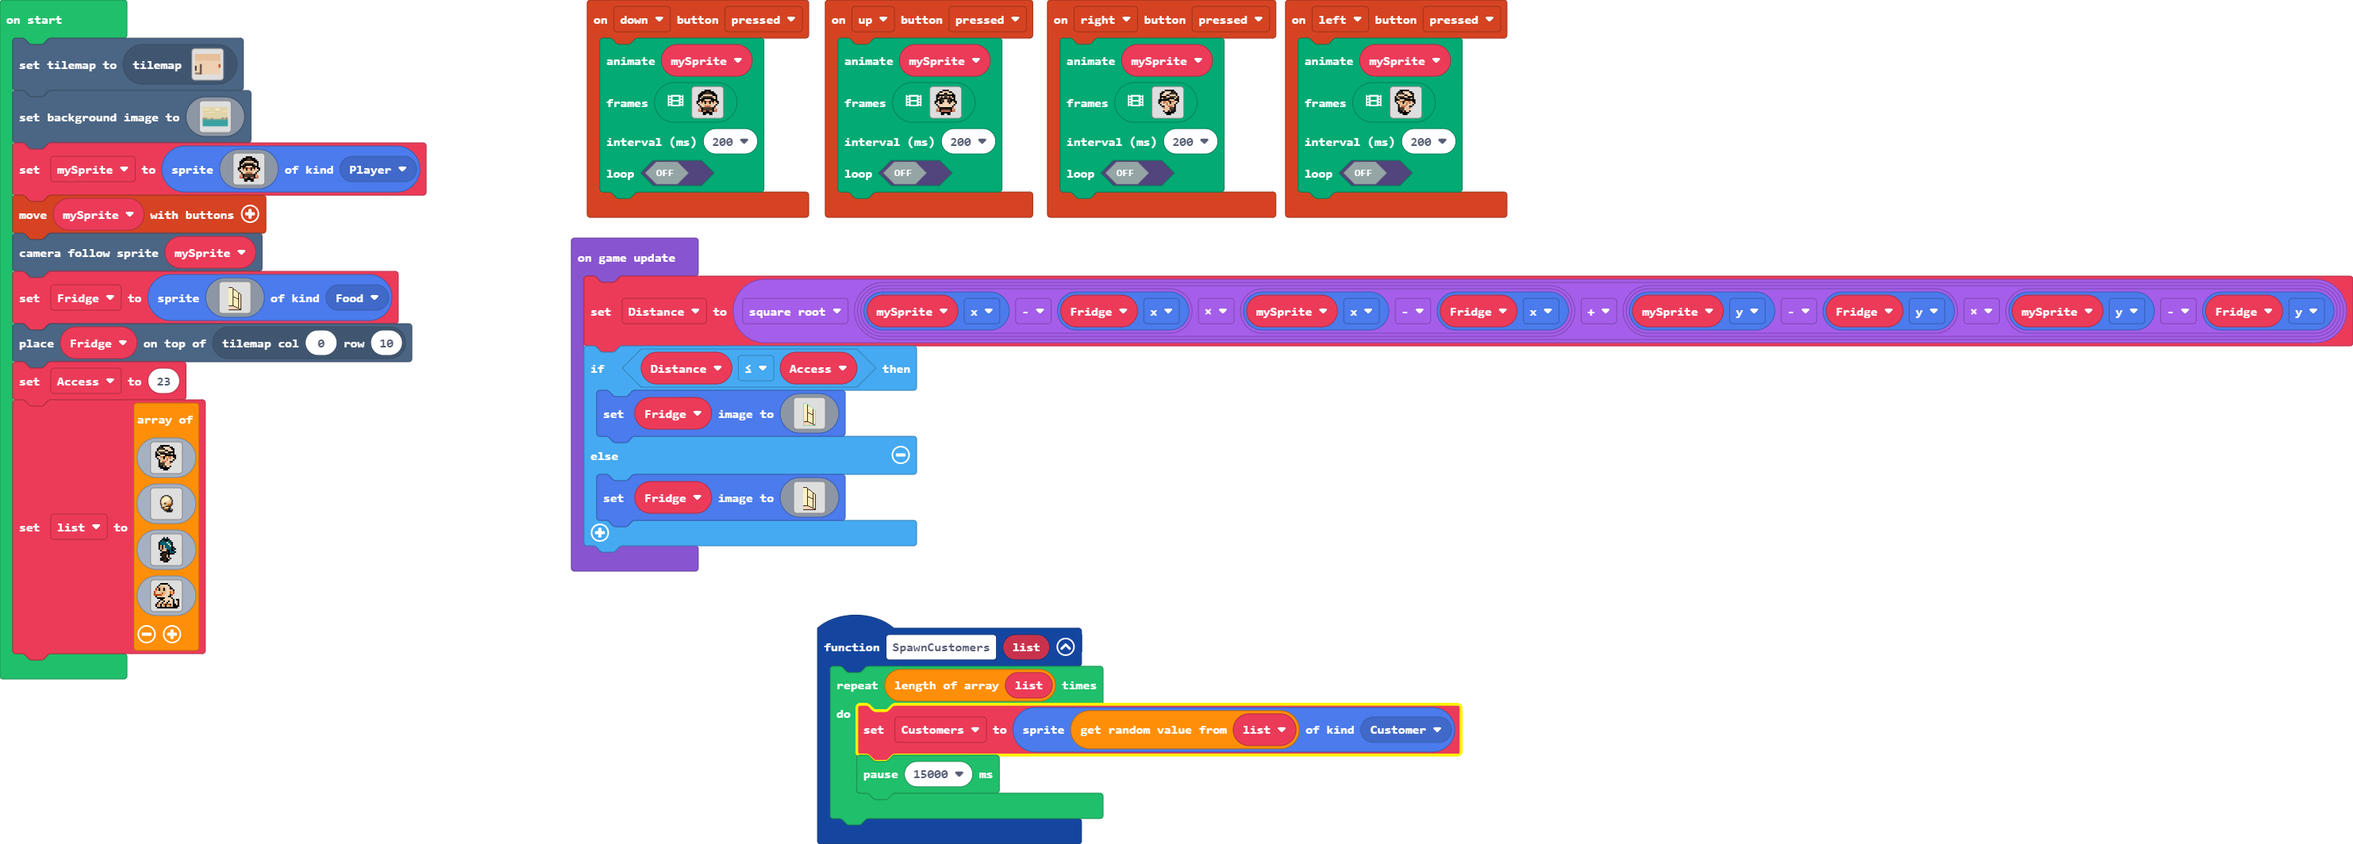
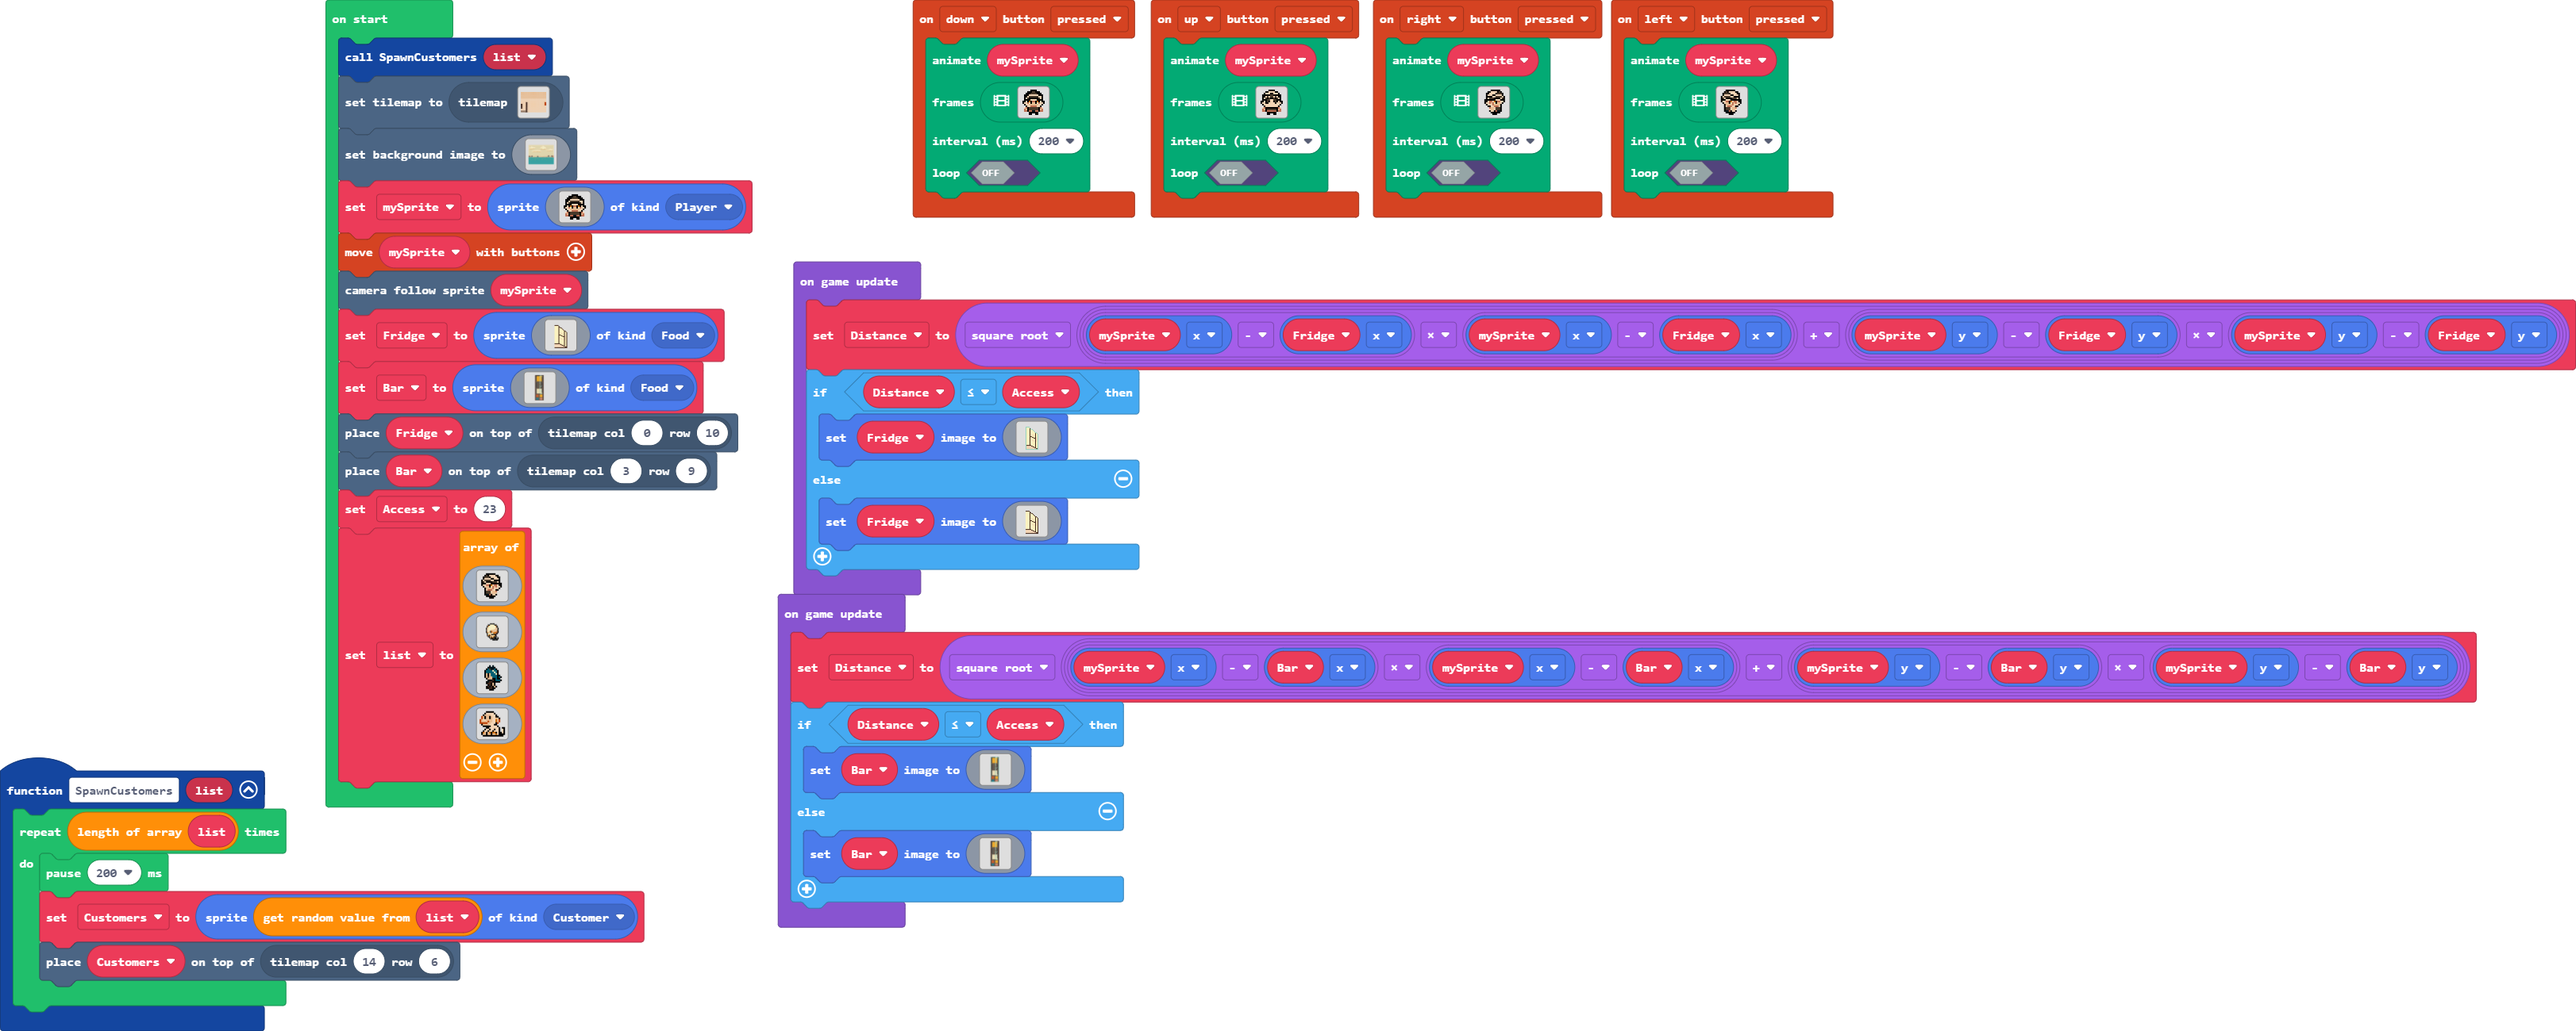
Update main.blocks, main.ts, images.g.jres, images.g.ts

diff --git a/images.g.ts b/images.g.ts
@@ -92,6 +92,108 @@ eeeeeeeeeeeee333
 8eeeeeeeeeeee338
 8888888888888888
 `;
+            case "image4":
+            case "Bar":return img`
+3333333333333333
+3355555558888533
+335aaaaaa8aaa833
+335aaaaaa8aaa533
+335aaaaaa8a8a533
+335aaaaaa8aa8533
+335aaaaaa8aaa533
+335aaaaaa8aaa533
+335aaaaaa8aaa533
+335aaaaaa8aaa533
+335aaaaaa8aaa533
+335aaaaaa8aaa533
+3322222228222233
+3322222228222233
+3352222228222533
+3352222228222533
+3352222228222533
+3352222228222533
+3352222222222533
+3352222228222533
+3352222228228533
+3352222228282533
+3352222228222533
+3352222228222533
+3322222228222233
+3322222228222233
+3359999998999533
+3359999998999533
+3359999998999533
+3359999998899533
+3359999998989533
+3359999998999533
+3359999998999533
+3359999998999533
+3359999998999833
+3322222222888233
+3322222222222233
+33ccccc22aaaaa33
+33ccccc22aaaaa33
+33ccccc22aaaaa33
+33ccccc22aaaaa33
+33ccccc22aaaaa33
+3322222222222233
+3366666224444433
+3366666224444433
+3366666224444433
+3366666224444433
+3333333333333333
+`;
+            case "image5":
+            case "BarH":return img`
+8888888888888888
+8355555558888538
+835aaaaaa8aaa838
+835aaaaaa8aaa538
+835aaaaaa8a8a538
+835aaaaaa8aa8538
+835aaaaaa8aaa538
+835aaaaaa8aaa538
+835aaaaaa8aaa538
+835aaaaaa8aaa538
+835aaaaaa8aaa538
+835aaaaaa8aaa538
+8322222228222238
+8322222228222238
+8352222228222538
+8352222228222538
+8352222228222538
+8352222228222538
+8352222222222538
+8352222228222538
+8352222228228538
+8352222228282538
+8352222228222538
+8352222228222538
+8322222228222238
+8322222228222238
+8359999998999538
+8359999998999538
+8359999998999538
+8359999998899538
+8359999998989538
+8359999998999538
+8359999998999538
+8359999998999538
+8359999998999838
+8322222222888238
+8322222222222238
+83ccccc22aaaaa38
+83ccccc22aaaaa38
+83ccccc22aaaaa38
+83ccccc22aaaaa38
+83ccccc22aaaaa38
+8322222222222238
+8366666224444438
+8366666224444438
+8366666224444438
+8366666224444438
+8888888888888888
+`;
         }
         return null;
     })

diff --git a/main.ts b/main.ts
@@ -87,8 +87,9 @@ controller.left.onEvent(ControllerButtonEvent.Pressed, function () {
 })
 function SpawnCustomers (list: any[]) {
     for (let index = 0; index < list.length; index++) {
+        pause(200)
         Customers = sprites.create(list._pickRandom(), SpriteKind.Customer)
-        pause(15000)
+        tiles.placeOnTile(Customers, tiles.getTileLocation(14, 6))
     }
 }
 controller.right.onEvent(ControllerButtonEvent.Pressed, function () {
@@ -246,6 +247,8 @@ controller.down.onEvent(ControllerButtonEvent.Pressed, function () {
 let Distance = 0
 let Customers: Sprite = null
 let mySprite: Sprite = null
+let list: Image[] = []
+SpawnCustomers(list)
 tiles.setCurrentTilemap(tilemap`Cafe`)
 scene.setBackgroundImage(img`
     9999999999999999999999999999999999999999999999999999999999999999999999999999999999999999999999999999999999999999999999999999999999999999999999999999999999999999
@@ -390,9 +393,11 @@ mySprite = sprites.create(img`
 controller.moveSprite(mySprite)
 scene.cameraFollowSprite(mySprite)
 let Fridge = sprites.create(assets.image`fridge`, SpriteKind.Food)
+let Bar = sprites.create(assets.image`Bar`, SpriteKind.Food)
 tiles.placeOnTile(Fridge, tiles.getTileLocation(0, 10))
+tiles.placeOnTile(Bar, tiles.getTileLocation(3, 9))
 let Access = 23
-let list = [
+list = [
 img`
     . . . . f f f f f f . . . . . . 
     . . . f 2 f e e e e f f . . . . 
@@ -480,5 +485,13 @@ game.onUpdate(function () {
         Fridge.setImage(assets.image`fridgeh`)
     } else {
         Fridge.setImage(assets.image`fridge`)
+    }
+})
+game.onUpdate(function () {
+    Distance = Math.sqrt((mySprite.x - Bar.x) * (mySprite.x - Bar.x) + (mySprite.y - Bar.y) * (mySprite.y - Bar.y))
+    if (Distance <= Access) {
+        Bar.setImage(assets.image`BarH`)
+    } else {
+        Bar.setImage(assets.image`Bar`)
     }
 })
